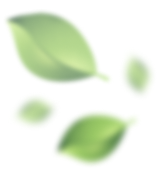
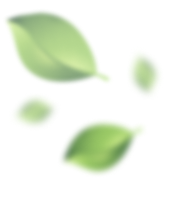
feat: styles updated according to the layout (Thu, Nov 21, 2024, 12:17:37 PM)

diff --git a/src/scss/components/_section-contacts.scss b/src/scss/components/_section-contacts.scss
@@ -24,7 +24,7 @@
 		@include media.desktop {
 			flex-direction: column;
 			align-items: center;
-			padding-top: 40px;
+			padding-top: 36px;
 		}
 
 		@include media.bigMobile {
@@ -33,7 +33,7 @@
 	}
 
 	&__title {
-		margin-top: 12px;
+		margin-top: 8px;
 		font-family: 'Inika';
 		font-size: 40px;
 		line-height: normal;
@@ -54,7 +54,7 @@
 	&__image {
 		order: -2;
 		width: 400px;
-		margin-right: 50px;
+		margin-right: 46px;
 
 		@include media.desktop {
 			order: 0;
@@ -69,7 +69,7 @@
 	}
 
 	&__details {
-		margin: 100px 0 47px;
+		margin: 94px 0 47px;
 		font-size: 20px;
 		line-height: 40px;
 
@@ -132,9 +132,10 @@
 		transition: all 0.5s ease;
 
 		@include media.bigMobile {
-			padding-right: 20px;
+			padding-inline: 18px 22px;
 			width: 300px;
 		}
+
 
 		@include mixins.hover {
 			background: variables.$greenSummaryBg;
@@ -182,16 +183,18 @@
 
 	&__popUp {
 		@include mixins.sizes(448px, 214px);
-		padding: 17px 76px 32px 35px;
+		padding: 17px 76px 32px 33px;
+		transform: translateX(300%);
 		border: 1px solid variables.$blackColor;
 		border-radius: 20px;
 		font-size: 16px;
 		line-height: 40px;
+		letter-spacing: 0.8px;
 		background: variables.$greenBg;
 		transition: transform 0.5s ease;
-		transform: translateX(200%);
 
 		@include media.desktop {
+			padding-top: 15px;
 			margin-bottom: 14px;
 		}
 
@@ -213,16 +216,15 @@
 	&__popUp-info {
 		display: flex;
 		flex-direction: column;
-		margin-right: 12px;
+		margin-right: 16px;
 		color: variables.$blackColor;
 
 		@include media.bigMobile {
-			margin-right: 5px;
+			margin-right: 0px;
 			max-width: 65px;
-			line-height: 20px;
 
-			& p:not(:last-child) {
-				margin-bottom: 20px;
+			& p:last-child {
+				line-height: 20px;
 			}
 		}
 	}
@@ -233,24 +235,23 @@
 		color: variables.$greyColor-113;
 
 		& p:last-of-type {
-			margin-bottom: 22px;
+			margin-bottom: 18px;
 		}
 
 		@include media.bigMobile {
 			max-width: 146px;
-			line-height: 20px;
-
-			& p:not(:last-of-type) {
-				margin-bottom: 20px;
-			}
 
 			& p:last-of-type {
-				margin-bottom: 17px;
+				margin-bottom: 19px;
+				padding-left: 8px;
+				line-height: 20px;
 			}
 		}
 	}
 
 	&__popUp-link {
+		position: relative;
+		right: 5px;
 		@include mixins.sizes(122px, 26px);
 		padding: 7px 29px;
 		border: 1px solid variables.$orangeColor;
@@ -262,6 +263,10 @@
 		color: variables.$greyColor-113;
 		background-color: transparent;
 		transition: all 0.5s ease;
+
+		@include media.bigMobile {
+			right: 16px;
+		}
 
 		@include mixins.hoverAndActive {
 			background-color: variables.$orangeColor;

diff --git a/src/scss/components/_section-service.scss b/src/scss/components/_section-service.scss
@@ -6,14 +6,14 @@
 	background-color: variables.$greenBg;
 
 	&__inner {
-		padding: 40px 0 121px;
+		padding: 36px 0 121px;
 
 		@include media.desktop {
 			padding: 60px 0 70px;
 		}
 
 		@include media.bigMobile {
-			padding: 30px 0 27px;
+			padding: 32px 0 27px;
 		}
 	}
 
@@ -29,12 +29,16 @@
 		}
 	}
 
-	&__control-btn:active {
-		color: variables.$greenColor-0;
+	&__control-btn {
+		line-height: 26px;
+
+		&:active {
+			color: variables.$greenColor-0;
+		}
 	}
 
 	&__control-title {
-		margin-right: 144px;
+		margin-right: 140px;
 		max-width: 306px;
 		color: variables.$greenColor-73;
 		letter-spacing: 0;
@@ -45,7 +49,7 @@
 		}
 
 		@include media.bigMobile {
-			margin-bottom: 35px;
+			margin-bottom: 38px;
 			max-width: 187px;
 		}
 	}
@@ -62,7 +66,7 @@
 
 		@include media.bigMobile {
 			flex-wrap: wrap;
-			gap: 10px;
+			gap: 9px 11px;
 		}
 	}
 
@@ -91,6 +95,10 @@
 		width: 329px;
 
 		@include media.desktop {
+			width: 280px;
+		}
+
+		@include media.bigMobile {
 			width: 279px;
 		}
 	}
@@ -111,12 +119,12 @@
 		letter-spacing: 0;
 
 		@include media.desktop {
-			width: 279px;
+			width: 280px;
 		}
 
 		&__title {
 			padding-top: 10px;
-			margin-bottom: 16px;
+			margin-bottom: 14px;
 			color: variables.$orangeColor;
 
 			@include media.desktop {

diff --git a/src/scss/components/_section-prices.scss b/src/scss/components/_section-prices.scss
@@ -9,16 +9,16 @@
 	&__inner {
 		display: flex;
 		justify-content: space-between;
-		padding: 40px 0 115px;
+		padding: 40px 0 119px;
 
 		@include media.desktop {
-			padding: 40px 0 88px;
+			padding-bottom: 88px;
 		}
 
 		@include media.bigMobile {
 			flex-direction: column;
 			align-items: center;
-			padding: 23px 0 40px;
+			padding: 26px 0 40px;
 		}
 	}
 
@@ -33,7 +33,7 @@
 	}
 
 	&__contacts-title {
-		margin-bottom: 38px;
+		margin-bottom: 39px;
 		max-width: 452px;
 		font-size: 40px;
 		line-height: 50px;
@@ -98,7 +98,7 @@
 	}
 
 	&__title {
-		margin-bottom: 60px;
+		margin-bottom: 58px;
 		font-size: 40px;
 		line-height: normal;
 		letter-spacing: 0;
@@ -135,7 +135,7 @@
 		position: relative;
 		display: flex;
 		flex-direction: column;
-		padding: 16px 41px;
+		padding: 16px 38px;
 		width: 250px;
 		max-height: 50px;
 		border-radius: 20px;
@@ -185,7 +185,7 @@
 		align-items: center;
 		position: absolute;
 		right: 40px;
-		top: 17px;
+		top: 18px;
 		@include mixins.sizes(16px, 16px);
 		background: variables.$greyColor-217;
 		transition: all 0.5s ease;

diff --git a/src/scss/components/_section-welcome.scss b/src/scss/components/_section-welcome.scss
@@ -13,18 +13,18 @@
 		@include media.desktop {
 			flex-direction: row-reverse;
 			justify-content: space-between;
-			padding: 40px 0 70px;
+			padding: 39px 0 70px;
 		}
 
 		@include media.bigMobile {
-			padding: 24px 0;
+			padding: 27px 0 24px;
 			justify-content: center;
 		}
 	}
 
 	&__image {
-		width: clamp(280px, 31vw, 449px);
-		margin-right: 230px;
+		width: clamp(280px, 32vw, 449px);
+		margin-right: 224px;
 
 		@include media.desktop {
 			margin-right: 0;
@@ -43,7 +43,7 @@
 	}
 
 	&__info-title {
-		margin-bottom: 42px;
+		margin-bottom: 45px;
 		font-size: 45px;
 		line-height: 50px;
 		letter-spacing: 0;
@@ -56,7 +56,7 @@
 		}
 
 		@include media.bigMobile {
-			margin-bottom: 24px;
+			margin-bottom: 21px;
 			font-size: 25px;
 			line-height: 35px;
 		}
@@ -68,6 +68,7 @@
 
 	&__info-subtitle {
 		margin-bottom: 48px;
+		max-width: 525px;
 		font-size: 20px;
 		line-height: 35px;
 		letter-spacing: 0;

diff --git a/src/scss/components/_section-about.scss b/src/scss/components/_section-about.scss
@@ -22,7 +22,6 @@
 
 	&__info {
 		margin-right: 153px;
-		padding-top: 7px;
 		max-width: 605px;
 
 		@include media.desktop {
@@ -33,14 +32,14 @@
 	}
 
 	&__info-image {
-		width: clamp(150px, 33vw, 462px);
+		width: clamp(150px, 33vw, 464px);
 	}
 
 	&__info-title {
 		margin-bottom: 40px;
 		color: variables.$greenColor-73;
 		letter-spacing: 0;
-		word-spacing: 2px;
+		word-spacing: 0.5px;
 
 		@include media.desktop {
 			padding-top: 0;
@@ -50,7 +49,7 @@
 		}
 
 		@include media.bigMobile {
-			margin-bottom: 16px;
+			margin-bottom: 13px;
 		}
 
 		&_orange {

diff --git a/src/scss/components/_header.scss b/src/scss/components/_header.scss
@@ -9,7 +9,7 @@
 	color: variables.$linksNavColor;
 
 	.container {
-		padding-left: 113px;
+		padding-left: 111px;
 
 		@include media.desktop {
 			padding-left: 50px;
@@ -36,7 +36,6 @@
 	display: flex;
 	align-self: flex-start;
 	align-items: baseline;
-	gap: 0 2px;
 	letter-spacing: 0;
 	margin-top: 10px;
 
@@ -52,7 +51,7 @@
 .nav {
 	&__list {
 		display: flex;
-		gap: 0 46px;
+		gap: 0 47px;
 
 		@include media.bigMobile {
 			position: absolute;
